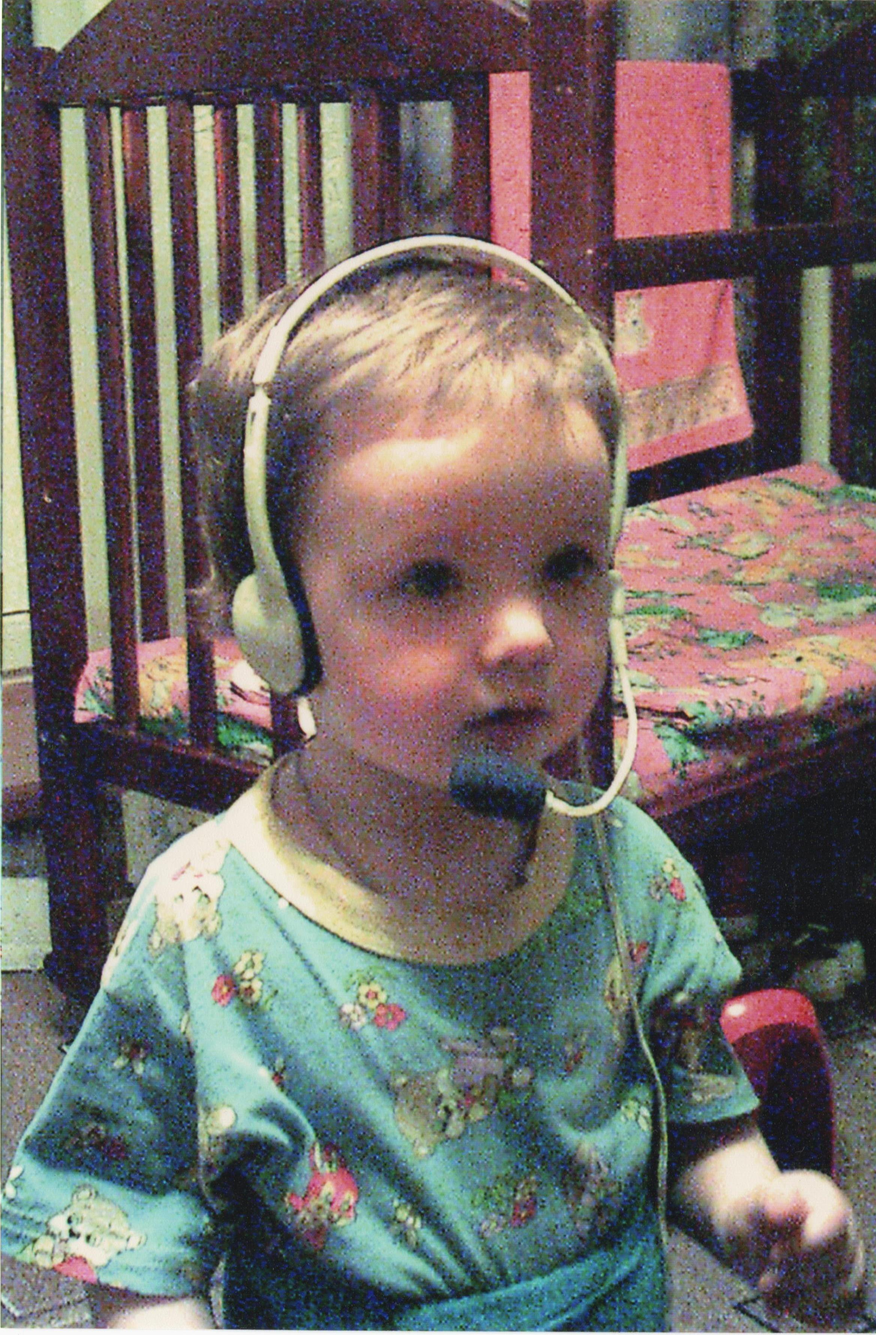
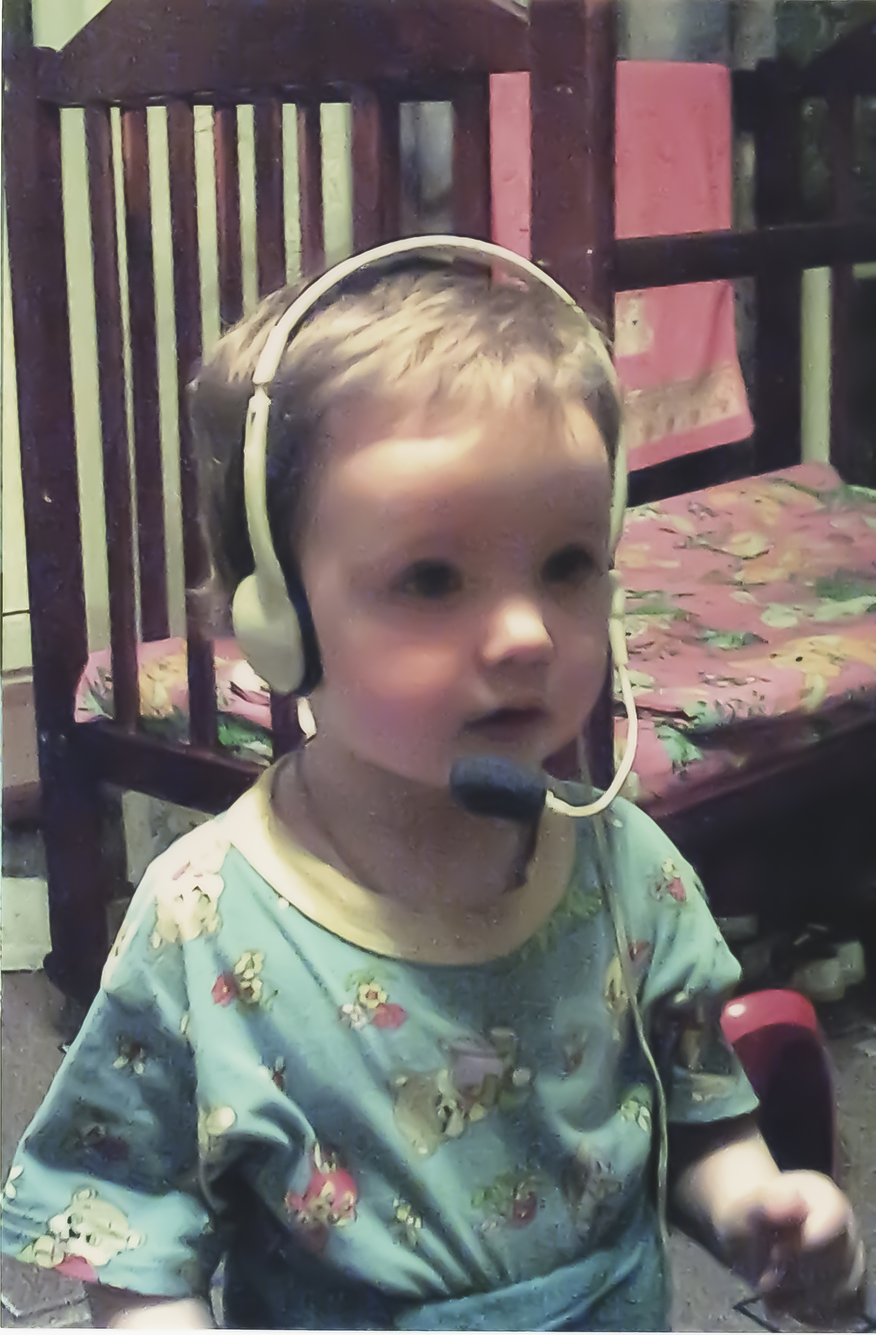
таблица откинулась от обалденности фотки

diff --git a/static/css/styles.css b/static/css/styles.css
@@ -69,23 +69,26 @@
         background-color: #FFF1BD;
 
     }
-    .recipe .name {
+
+    .me {
         display: flex;
-        text-decoration: none;
+    }
+
+    .me_img {
+    padding: 0% 20% 0% 10%;
     }
 
     .table {
     border-collapse: collapse;
    /*убираем пустые промежутки между ячейками*/
-    border: 1px #146356;
    /*устанавливаем для таблицы внешнюю границу серого цвета толщиной 1px*/
-    width :  600px ;
-    margin: 10px auto;
+    width :  80% ;
+    margin: 30px auto;
+
     }
     .th  {
-    border-collapse: collapse;
     border: 1px #146356;
-    height :  70px ;
+    height :  60px ;
     background-color : #FFF1BD;
     }
     .td  {

diff --git a/templates/me.html b/templates/me.html
@@ -14,11 +14,15 @@
     </ul>
     </nav>
 </header>
-<center><h1>Это я</h1>
-<img src="{{url_for('static', filename='img/me.jpg')}}" width="30%" />
+<center><h1>Это я</h1></center>
+<div class="me">
+    <div class="me_img">
+<img src="{{url_for('static', filename='img/me.jpg')}}"/>
+    </div>
+<center>
 <h2>Кузина Лиза</h2>
-<h2>Средний балл: 5</h2></center>
-    <center>
+<h2>Средний балл: 5</h2>
+<h2>Мои оценки</h2>
     <table>
         <div class="table">
         <tr>
@@ -55,6 +59,6 @@
         </div>
         </div>
     </table>
-    </center>
-
+</center>
+</div>
 {% endblock %}
